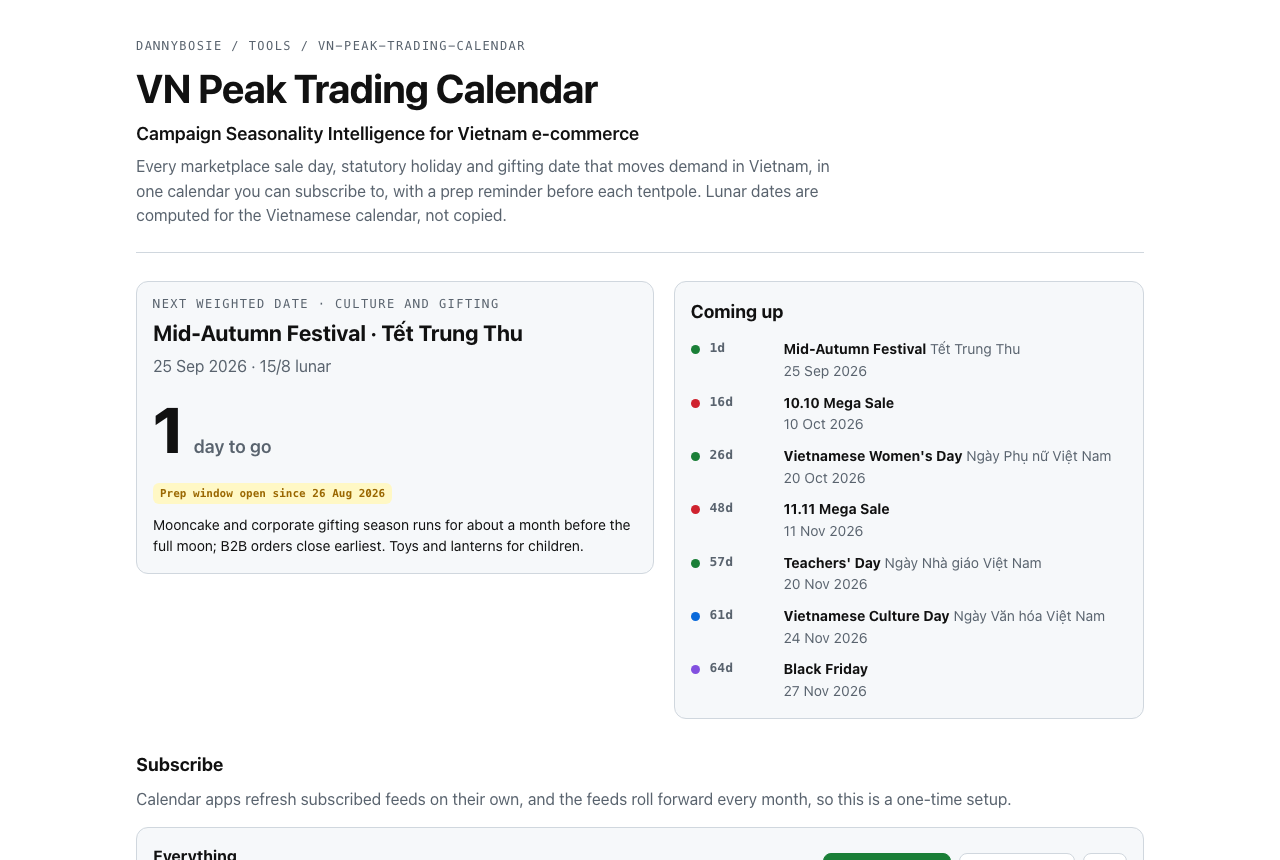
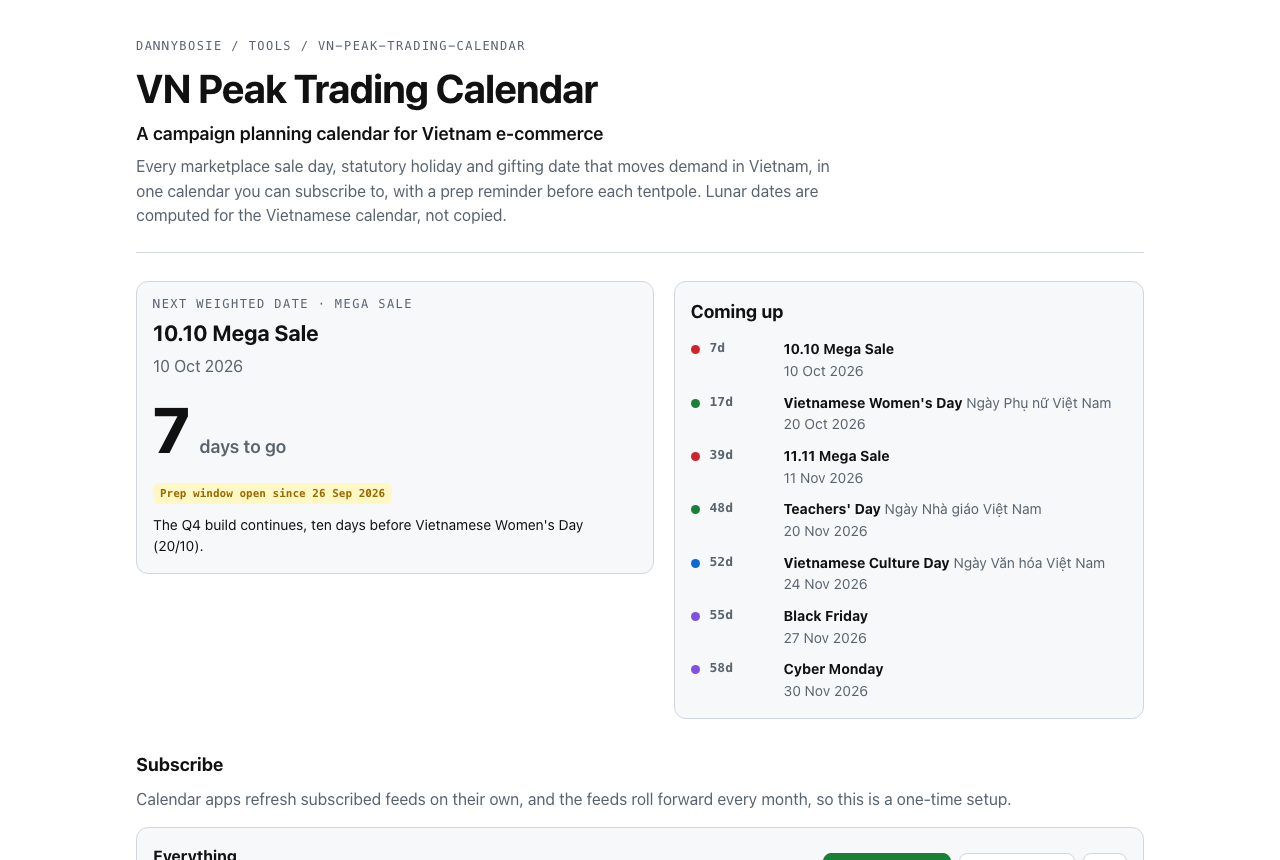
Describe the calendar plainly
Replace the tagline with a plain description in the README, page, CLI help
and package metadata, and name the author the same way as the other tools.

Refresh the screenshot and social image to match.

diff --git a/site/index.html b/site/index.html
@@ -3,9 +3,9 @@
 <head>
   <meta charset="utf-8">
   <meta name="viewport" content="width=device-width, initial-scale=1">
-  <title>VN Peak Trading Calendar · Campaign Seasonality Intelligence</title>
+  <title>VN Peak Trading Calendar · Sale days and holidays for Vietnam e-commerce</title>
   <meta name="description" content="Every Vietnam e-commerce sale day, holiday and gifting date in one subscribable calendar: 11.11, 12.12, payday sales, Tết, Mid-Autumn, 20/10, with campaign prep reminders. Lunar dates computed for the Vietnamese calendar.">
-  <meta property="og:title" content="VN Peak Trading Calendar · Campaign Seasonality Intelligence">
+  <meta property="og:title" content="VN Peak Trading Calendar · Sale days and holidays for Vietnam e-commerce">
   <meta property="og:description" content="Vietnam e-commerce sale days, holidays and gifting dates, as calendar feeds with prep reminders.">
   <meta property="og:image" content="https://dannybosie.github.io/vn-peak-trading-calendar/og.png">
   <meta name="twitter:card" content="summary_large_image">
@@ -54,7 +54,7 @@
     <header class="top">
       <p class="eyebrow"><a href="https://github.com/dannybosie">dannybosie</a> / tools / <a href="https://github.com/dannybosie/vn-peak-trading-calendar">vn-peak-trading-calendar</a></p>
       <h1>VN Peak Trading Calendar</h1>
-      <p class="tagline">Campaign Seasonality Intelligence for Vietnam e-commerce</p>
+      <p class="tagline">A campaign planning calendar for Vietnam e-commerce</p>
       <p class="lede">Every marketplace sale day, statutory holiday and gifting date that moves demand in Vietnam, in one calendar you can subscribe to, with a prep reminder before each tentpole. Lunar dates are computed for the Vietnamese calendar, not copied.</p>
     </header>
 
@@ -90,7 +90,7 @@ npx github:dannybosie/vn-peak-trading-calendar lunar 2026-08-27     # 15/7, luna
     </main>
 
     <footer class="bottom">
-      Built by <a href="https://github.com/dannybosie">Thinh Nguyen (Danny)</a>, a growth marketer who ships tools. MIT licensed.
+      Built by <a href="https://github.com/dannybosie">Thinh Nguyen (Danny)</a>, founder of <a href="https://ordinex.cc">Ordinex</a>. MIT licensed.
       <ul>
         <li><a href="https://dannybosie.github.io/slop-lint/">slop-lint</a></li>
         <li><a href="https://dannybosie.github.io/utm-governor/">utm-governor</a></li>

diff --git a/src/cli.ts b/src/cli.ts
@@ -7,7 +7,7 @@ import { lunarToSolar, solarToLunar } from "./core/lunar.ts";
 
 const VERSION = "1.0.0";
 const HELP = `vn-peak ${VERSION}
-Campaign Seasonality Intelligence for Vietnam e-commerce: sale days, holidays and
+A campaign planning calendar for Vietnam e-commerce: sale days, holidays and
 gifting dates, with lunar dates computed for the Vietnamese calendar.
 
 Usage

diff --git a/dist/cli.js b/dist/cli.js
@@ -623,7 +623,7 @@ function feedEvents(feed, events) {
 // src/cli.ts
 var VERSION = "1.0.0";
 var HELP = `vn-peak ${VERSION}
-Campaign Seasonality Intelligence for Vietnam e-commerce: sale days, holidays and
+A campaign planning calendar for Vietnam e-commerce: sale days, holidays and
 gifting dates, with lunar dates computed for the Vietnamese calendar.
 
 Usage

diff --git a/README.md b/README.md
@@ -1,6 +1,6 @@
 # VN Peak Trading Calendar
 
-**Campaign Seasonality Intelligence for Vietnam e-commerce.** Every marketplace sale day, statutory holiday and gifting date that moves demand in Vietnam, as calendar feeds you subscribe to once, with a prep reminder before each tentpole.
+**A campaign planning calendar for Vietnam e-commerce.** Every marketplace sale day, statutory holiday and gifting date that moves demand in Vietnam, as calendar feeds you subscribe to once, with a prep reminder before each tentpole.
 
 **[Open the calendar](https://dannybosie.github.io/vn-peak-trading-calendar/)** to see what is coming up, plan a year, or subscribe in Google Calendar, Apple Calendar or Outlook.
 
